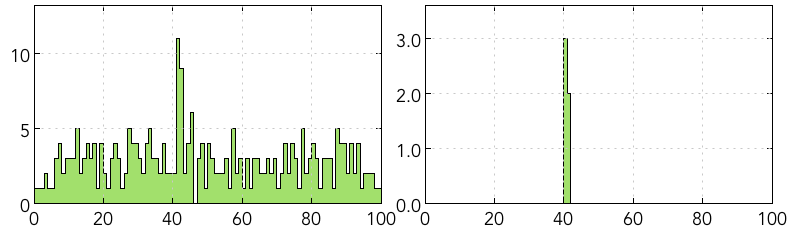
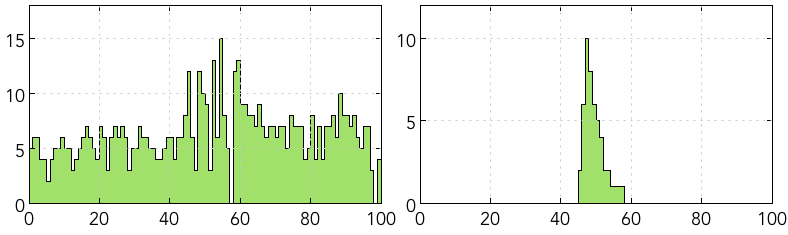
included better pulse

diff --git a/jhep-docs/latex/fadc_compression.tex b/jhep-docs/latex/fadc_compression.tex
@@ -66,8 +66,8 @@ recording the pulse into 16 bit words (200 bytes).
 \begin{figure}[!ht]
 \begin{center}
 
- \includegraphics[width=5in]{pics/fadc_pulse_reduction.png}
- \includegraphics[width=5in]{pics/fadc_pulse_summ.png}
+ \includegraphics[width=6in]{pics/fadc_pulse_reduction.png}
+ \includegraphics[width=6in]{pics/fadc_pulse_summ.png}
 
  \caption {Typical pulse from Electro-Magnetic Calorimeter, top left) raw pulse, top right) pedestal subtracted pulse, bottom) integral sum of the pulse.}
  \label{FADC_PULSE}
@@ -85,7 +85,7 @@ difference between neighboring bins, and high 8 bits, show on Figure~\ref{FADC_P
 \begin{figure}[!ht]
 \begin{center}
 
- \includegraphics[width=5in]{pics/fadc_pulse_bits.png}
+ \includegraphics[width=6in]{pics/fadc_pulse_bits.png}
 
  \caption {Separated arrays of low (4) and high (8) bites. left) low 4 bites of difference array,
  right) high 8 bites of difference array. }
@@ -97,9 +97,9 @@ The two arrays are encoded differently. First distribution (left on Figure~\ref{
 throwing away leading and trailing 0s. One byte is first written for first bin with no 0 content, followed
 by N samples of 8 bits until the last non zero bin is reached.
 
-In the above given example occupied 55 bytes (instead of 200) to fully describe the pulse.
-Depending on the width of the pulse in average 10-15 bytes are used to encode high bits of 
-the pulse, while the low bits are always encoded using 52 bites.
+In the above given example occupied 63 bytes (instead of 200) to fully describe the pulse.
+The array of high 8 bits contains 10 non zero elements, so the array is encoded into 11 bytes,
+52+11=63 total bytes. Depending on the width of the pulse in average 5-15 bytes are used to encode high bits of the pulse, while the low bits are always encoded using 52 bites.
 
 \section{Benchmarks}
 
